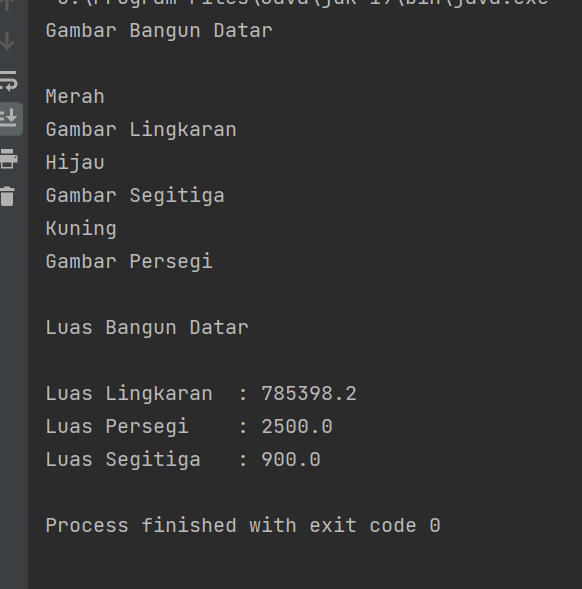
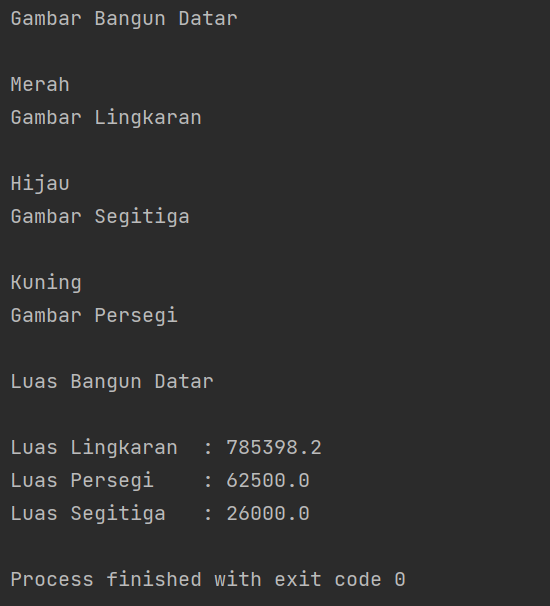
edit file penjelasan dengan comment

diff --git a/Pertemuan10/Main.java b/Pertemuan10/Main.java
@@ -1,15 +1,23 @@
 package Pertemuan10;
-
+//Call Method
 public class Main {
     public static void main(String[] args) {
 
+        //Pembuatan object dari Subclass dengan polymorphic tipe data BangunDatar
+
         BangunDatar lingkaran =new Lingkaran("Hitam",500);
-        BangunDatar persegi =new Persegi("Kuning",50,50);
-        BangunDatar segitiga= new Segitiga("Hijau",30,60);
+        BangunDatar persegi =new Persegi("Kuning",250,250);
+        BangunDatar segitiga= new Segitiga("Hijau",200,260);
+
+        //Pengubahan warna dengan setter
         lingkaran.setWarna("Merah");
+
+        //Pemanggilan Abstract Method draw
         lingkaran.draw();
         segitiga.draw();
         persegi.draw();
+
+        //Pemanggilan Abstract Method luas
         System.out.println();
         System.out.println("\nLuas Lingkaran\t: " + lingkaran.luas());
         System.out.println("Luas Persegi\t: " + persegi.luas());

diff --git a/Pertemuan10/Segitiga.java b/Pertemuan10/Segitiga.java
@@ -1,21 +1,24 @@
 package Pertemuan10;
-
+// Inherite Dari Bangun Datar
 public class Segitiga extends BangunDatar{
-    private int alas;
-    private int tinggi;
+    //Atribute
+    private final int alas;
+    private final int tinggi;
 
+    // Overloading constructor
     public Segitiga(String warna,int alas, int tinggi) {
         super(warna);
         this.tinggi = tinggi;
         this.alas = alas;
 
     }
-
+    // overriding Abstract method draw
     @Override
     public void draw() {
-        System.out.println(getWarna());
+        System.out.println("\n"+getWarna());
         System.out.println("Gambar Segitiga");
     }
+    //overriding Abstract method luas
     @Override
     public float luas() {
         return (float) (0.5 * alas * tinggi);

diff --git a/Pertemuan10/Persegi.java b/Pertemuan10/Persegi.java
@@ -1,21 +1,27 @@
 package Pertemuan10;
 
+// Inherite Dari Bangun Datar
 public class Persegi extends BangunDatar {
+    // Atribute
     private final float panjang;
     private final float lebar;
 
+    //Overloading constructor
     public Persegi(String warna,float panjang, float lebar) {
         super(warna);
         this.panjang = panjang;
         this.lebar = lebar;
 
     }
+
+    //Overide Abstract Method draw
     @Override
     public void draw() {
-        System.out.println(getWarna());
+        System.out.println("\n"+getWarna());
         System.out.println("Gambar Persegi");
     }
 
+    //Overloading Abstract Method luas
     @Override
     public float luas() {
 

diff --git a/Pertemuan10/Lingkaran.java b/Pertemuan10/Lingkaran.java
@@ -1,21 +1,24 @@
 package Pertemuan10;
 
+//Inherite Dari Bangun Datar
 public class Lingkaran extends BangunDatar {
+    // Atribute Lingkaran
     private final int r;
 
+    // Overload constructor
     public Lingkaran(String warna,int r) {
         super(warna);
         this.r = r;
     }
 
-
+    // Abstract Methode draw
     @Override
     public void draw() {
         System.out.println("Gambar Bangun Datar");
         System.out.println("\n" + getWarna());
         System.out.println("Gambar Lingkaran");
     }
-
+    // Abstract Method luas
     public float luas() {
         System.out.println("Luas Bangun Datar");
         return (float) (Math.PI * r *r);

diff --git a/Pertemuan10/BangunDatar.java b/Pertemuan10/BangunDatar.java
@@ -1,18 +1,27 @@
 package Pertemuan10;
 
+// Abstrak class Bangun Datar
 public abstract class BangunDatar {
+    // Atribute Warna
     String warna;
 
+    // Constructor Bangun Datar
     public BangunDatar (String warna){
         this.warna = warna;
     }
+
+    //SETTER
     public void setWarna(String warna) {
         this.warna = warna;
     }
+    //GETTER
+
     public String getWarna() {
+
         return this.warna;
     }
 
+    // Abstract Method
     public abstract void draw();
 
     public abstract float luas();

diff --git a/README.md b/README.md
@@ -14,19 +14,28 @@ Matkul : Pemrograman Orientasi Objek
 ```java
 package Pertemuan10;
 
+// Abstrak class Bangun Datar
 public abstract class BangunDatar {
+    // Atribute Warna
     String warna;
 
+    // Constructor Bangun Datar
     public BangunDatar (String warna){
         this.warna = warna;
     }
+
+    //SETTER
     public void setWarna(String warna) {
         this.warna = warna;
     }
+    //GETTER
+
     public String getWarna() {
+
         return this.warna;
     }
 
+    // Abstract Method
     public abstract void draw();
 
     public abstract float luas();
@@ -40,26 +49,29 @@ public abstract class BangunDatar {
 ```java
 package Pertemuan10;
 
+//Inherite Dari Bangun Datar
 public class Lingkaran extends BangunDatar {
-  private final int r;
+    // Atribute Lingkaran
+    private final int r;
 
-  public Lingkaran(String warna,int r) {
-    super(warna);
-    this.r = r;
-  }
+    // Overload constructor
+    public Lingkaran(String warna,int r) {
+        super(warna);
+        this.r = r;
+    }
 
-
-  @Override
-  public void draw() {
-    System.out.println("Gambar Bangun Datar");
-    System.out.println("\n" + getWarna());
-    System.out.println("Gambar Lingkaran");
-  }
-
-  public float luas() {
-    System.out.println("Luas Bangun Datar");
-    return (float) (Math.PI * r *r);
-  }
+    // Abstract Methode draw
+    @Override
+    public void draw() {
+        System.out.println("Gambar Bangun Datar");
+        System.out.println("\n" + getWarna());
+        System.out.println("Gambar Lingkaran");
+    }
+    // Abstract Method luas
+    public float luas() {
+        System.out.println("Luas Bangun Datar");
+        return (float) (Math.PI * r *r);
+    }
 
 }
 ```
@@ -68,27 +80,33 @@ public class Lingkaran extends BangunDatar {
 ```java
 package Pertemuan10;
 
+// Inherite Dari Bangun Datar
 public class Persegi extends BangunDatar {
-  private final float panjang;
-  private final float lebar;
+    // Atribute
+    private final float panjang;
+    private final float lebar;
 
-  public Persegi(String warna,float panjang, float lebar) {
-    super(warna);
-    this.panjang = panjang;
-    this.lebar = lebar;
+    //Overloading constructor
+    public Persegi(String warna,float panjang, float lebar) {
+        super(warna);
+        this.panjang = panjang;
+        this.lebar = lebar;
 
-  }
-  @Override
-  public void draw() {
-    System.out.println(getWarna());
-    System.out.println("Gambar Persegi");
-  }
+    }
 
-  @Override
-  public float luas() {
+    //Overide Abstract Method draw
+    @Override
+    public void draw() {
+        System.out.println("\n"+getWarna());
+        System.out.println("Gambar Persegi");
+    }
 
-    return (panjang * lebar);
-  }
+    //Overloading Abstract Method luas
+    @Override
+    public float luas() {
+
+        return (panjang * lebar);
+    }
 }
 ```
 ### 4.Segitiga.Main.java
@@ -96,26 +114,30 @@ public class Persegi extends BangunDatar {
 ```java
 package Pertemuan10;
 
+// Inherite Dari Bangun Datar
 public class Segitiga extends BangunDatar{
-    private int alas;
-    private int tinggi;
+  //Atribute 
+  private final int alas;
+  private final int tinggi;
 
-    public Segitiga(String warna,int alas, int tinggi) {
-        super(warna);
-        this.tinggi = tinggi;
-        this.alas = alas;
+  // Overloading constructor
+  public Segitiga(String warna,int alas, int tinggi) {
+    super(warna);
+    this.tinggi = tinggi;
+    this.alas = alas;
 
-    }
-
-    @Override
-    public void draw() {
-        System.out.println(getWarna());
-        System.out.println("Gambar Segitiga");
-    }
-    @Override
-    public float luas() {
-        return (float) (0.5 * alas * tinggi);
-    }
+  }
+  // overriding Abstract method draw 
+  @Override
+  public void draw() {
+    System.out.println("\n"+getWarna());
+    System.out.println("Gambar Segitiga");
+  }
+  //overriding Abstract method luas
+  @Override
+  public float luas() {
+    return (float) (0.5 * alas * tinggi);
+  }
 }
 
 ```
@@ -124,26 +146,35 @@ public class Segitiga extends BangunDatar{
 ```java
 package Pertemuan10;
 
+//Call Method
 public class Main {
-    public static void main(String[] args) {
+  public static void main(String[] args) {
 
-        BangunDatar lingkaran =new Lingkaran("Hitam",500);
-        BangunDatar persegi =new Persegi("Kuning",50,50);
-        BangunDatar segitiga= new Segitiga("Hijau",30,60);
-        lingkaran.setWarna("Merah");
-        lingkaran.draw();
-        segitiga.draw();
-        persegi.draw();
-        System.out.println();
-        System.out.println("\nLuas Lingkaran\t: " + lingkaran.luas());
-        System.out.println("Luas Persegi\t: " + persegi.luas());
-        System.out.println("Luas Segitiga\t: " + segitiga.luas());
+    //Pembuatan object dari Subclass dengan polymorphic tipe data BangunDatar
+
+    BangunDatar lingkaran =new Lingkaran("Hitam",500);
+    BangunDatar persegi =new Persegi("Kuning",250,250);
+    BangunDatar segitiga= new Segitiga("Hijau",200,260);
+
+    //Pengubahan warna dengan setter
+    lingkaran.setWarna("Merah");
+
+    //Pemanggilan Abstract Method draw
+    lingkaran.draw();
+    segitiga.draw();
+    persegi.draw();
+
+    //Pemanggilan Abstract Method luas
+    System.out.println();
+    System.out.println("\nLuas Lingkaran\t: " + lingkaran.luas());
+    System.out.println("Luas Persegi\t: " + persegi.luas());
+    System.out.println("Luas Segitiga\t: " + segitiga.luas());
 
 
 
 
 
-    }
+  }
 }
 
 ```
